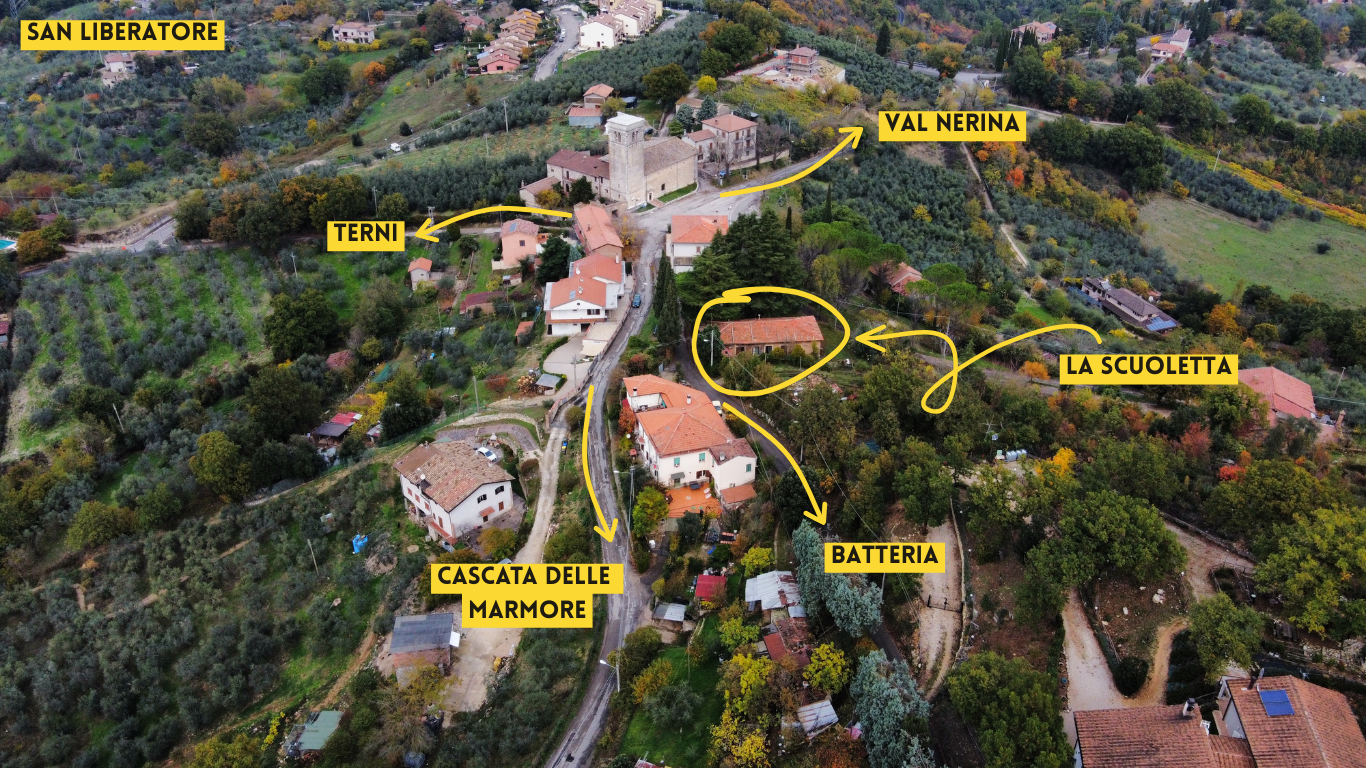
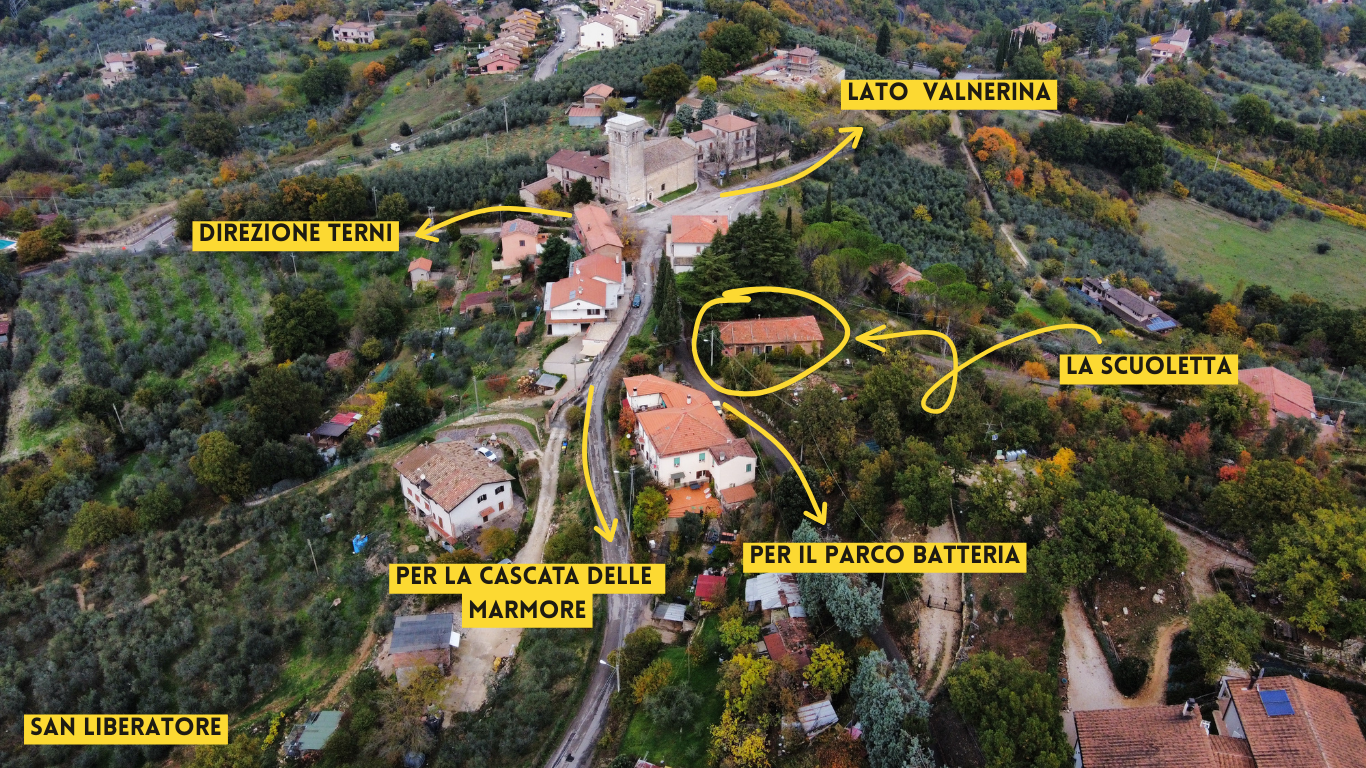
Update text color

diff --git a/src/Pages/Info.tsx b/src/Pages/Info.tsx
@@ -200,7 +200,7 @@ la scuola elementare  fino agli anni sessanta.
      <h2>PARTECIPA ALLA RINASCITA.</h2>
      <p>
  Vuoi unirti a noi per dare nuova vita a San Liberatore?{" "}
- <span className="footer-contact underline-contact" onClick={() => setShowPopup(true)}>
+ <span className="footer-contact underline-contact" onClick={() => setShowContact(true)}>
  Contattaci
 </span>
   per contribuire con idee

diff --git a/src/Pages/Residenza.css b/src/Pages/Residenza.css
@@ -328,7 +328,7 @@ text-align: justify;}
   }
   
   .residenza-footer .footer-copy {
-    font-size: 14px;
+    font-size: 12px;
     opacity: 0.7;
     margin-bottom: 8px;
     color: #000000;
@@ -336,9 +336,10 @@ text-align: justify;}
   }
   
   .residenza-footer .footer-sub {
-    font-size: 13px;
+    font-size: 12px;
     opacity: 0.7;
     color: #000000;
+    margin: -5px;
 
   }  
   

diff --git a/src/Pages/Info.css b/src/Pages/Info.css
@@ -502,7 +502,7 @@ margin-right: 3px;
   font-weight: 600;
   cursor: pointer;
   color: #000000;
-
+  margin-right: 5px;
 }
 
 .info-legal {
@@ -510,7 +510,15 @@ margin-right: 3px;
   opacity: 0.7;
   margin-top: 10px;
   color: #000000;
+  margin-bottom: -20px;
 
+}
+
+.info-legal p {
+  font-size: 12px;
+  opacity: 0.7;
+  margin-top: -10px;
+  color: #000000;
 }
 
 

diff --git a/src/Pages/Chisiamo.css b/src/Pages/Chisiamo.css
@@ -135,7 +135,6 @@ font-style: italic;
   margin-bottom: 18px;
 }
  .chisiamo-footer-cta p {
-  font-size: 16px;
   max-width: 520px;
   margin: 0 auto;
   line-height: 1.6;
